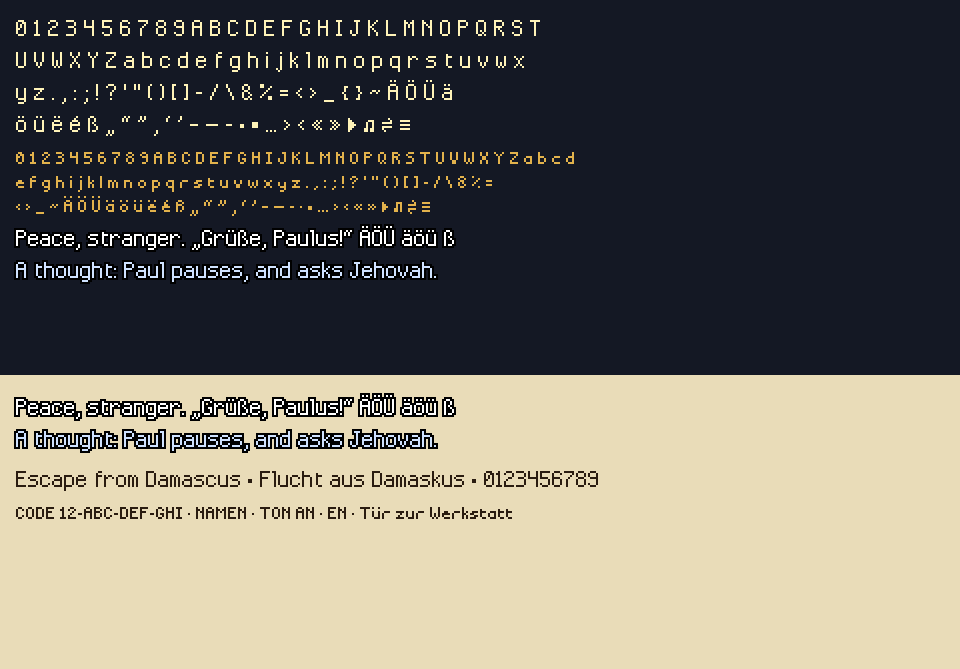
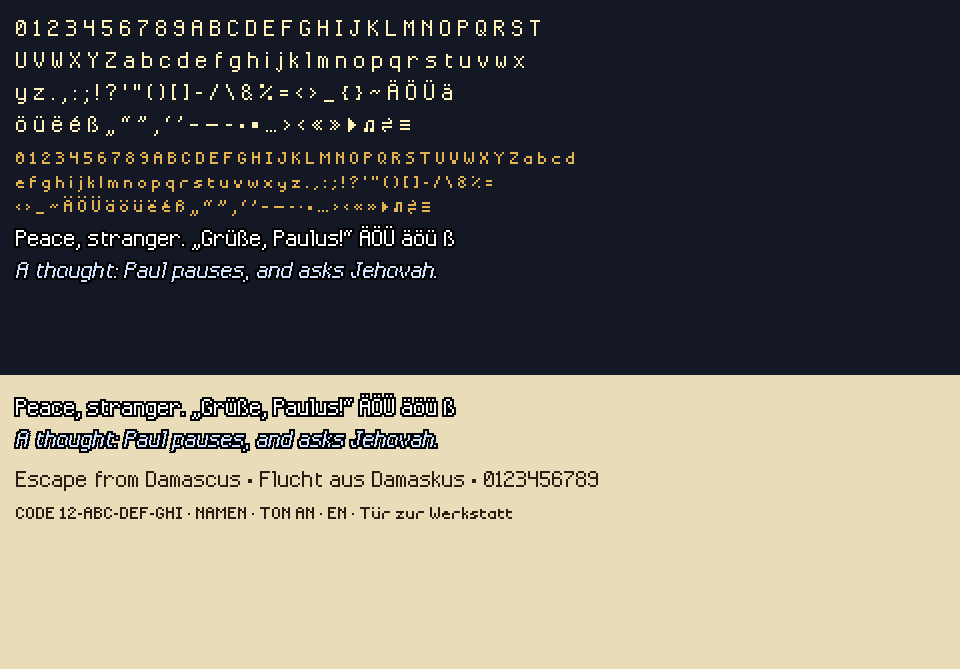
Pixel font: a slanted face for thoughts and prayer hints
Paul's thoughts and the answers to prayer are italic again. The italic is
the same pixel shapes leaned about 11 degrees as parallelograms and
smoothed by the browser, so no stroke tears where a stepped slant would.
Each glyph's box covers its slanted shape, so the browser clips nothing.
The font sheet shows it on a dark and a bright ground.

Changed region(s): [[0.0, 0.3886, 0.4688, 0.4185], [0.0, 0.6278, 0.25, 0.6876], [0.2812, 0.6278, 0.4688, 0.6876]]

diff --git a/shared/font.js b/shared/font.js
@@ -1,6 +1,6 @@
 /* Paul of Tarsus: a pixel font painted in code (CONTRIBUTING section 4).
    Two bitmap faces on the grid of the view's canvas pixels (two font pixels to one room pixel):
-     - "Paul Pixel"       12-pixel em (used at calc(var(--s)*6px) or integer multiples).
+     - "Paul Pixel"       12-pixel em (used at calc(var(--s)*6px) or integer multiples), upright, and slanted for thoughts.
      - "Paul Pixel Small"  9-pixel em (used at calc(var(--s)*4.5px)) for the top bar, tags, notes and footers.
    Each glyph is built in memory as a TrueType font (head, hhea, maxp, OS/2, hmtx, cmap, loca, glyf, name, post) from merged pixel
    rectangles and registered with FontFace. No font file, no network; works from disk. If any browser refuses it, the page keeps
@@ -293,7 +293,10 @@ function toRects(glyphs){
 
 /* --- TrueType binary writer --- */
 const UNIT=100;
-function buildTTF(name,sub,em,asc,desc,xH,capH,italic,glyphMap){
+/* buildTTF: a font from glyphs of pixel rectangles. slant leans every rectangle into a parallelogram, moving a point slant font pixels
+   to the right for each pixel it stands above the baseline; the glyph's box covers the slanted shape, or a browser clips its top. */
+function buildTTF(name,sub,em,asc,desc,xH,capH,italic,glyphMap,slant){
+  const K=slant||0,lean=(x,y)=>Math.round(x+K*y);
   const upm=em*UNIT,codes=Object.keys(glyphMap).map(c=>c.codePointAt(0)).sort((a,b)=>a-b);
   const glyphs=[{code:0,rects:[],adv:Math.round(em*.5)}];
   for(const cp of codes){const ch=String.fromCodePoint(cp),g=glyphMap[ch];glyphs.push({code:cp,rects:g.rects,adv:g.adv})}
@@ -310,7 +313,7 @@ function buildTTF(name,sub,em,asc,desc,xH,capH,italic,glyphMap){
     if(!g.rects.length){continue}
     let x0=32767,y0=32767,x1=-32768,y1=-32768;
     const rs=g.rects.map(r=>[r[0]*UNIT,r[1]*UNIT,r[2]*UNIT,r[3]*UNIT]);
-    for(const[a,b,c,d]of rs){x0=Math.min(x0,a);y0=Math.min(y0,b);x1=Math.max(x1,c);y1=Math.max(y1,d)}
+    for(const[a,b,c,d]of rs){x0=Math.min(x0,lean(a,b));y0=Math.min(y0,b);x1=Math.max(x1,lean(c,d));y1=Math.max(y1,d)}
     gXMin=Math.min(gXMin,x0);gYMin=Math.min(gYMin,y0);gXMax=Math.max(gXMax,x1);gYMax=Math.max(gYMax,y1);
     minLsb=Math.min(minLsb,x0);minRsb=Math.min(minRsb,adv-x1);maxExt=Math.max(maxExt,x1);
     const nc=rs.length,np=nc*4;maxCts=Math.max(maxCts,nc);maxPts=Math.max(maxPts,np);
@@ -322,7 +325,7 @@ function buildTTF(name,sub,em,asc,desc,xH,capH,italic,glyphMap){
     dv.setUint16(p,0);p+=2;
     for(let k=0;k<np;k++)dv.setUint8(p++,1);
     let px=0;
-    for(const[a,b,c,d]of rs)for(const nx of[a,a,c,c]){dv.setInt16(p,nx-px);p+=2;px=nx}
+    for(const[a,b,c,d]of rs)for(const nx of[lean(a,b),lean(a,d),lean(c,d),lean(c,b)]){dv.setInt16(p,nx-px);p+=2;px=nx}
     let py=0;
     for(const[a,b,c,d]of rs)for(const ny of[b,d,d,b]){dv.setInt16(p,ny-py);p+=2;py=ny}
     const pad=(4-(buf.byteLength%4))%4,u8=new Uint8Array(buf.byteLength+pad);u8.set(new Uint8Array(buf));
@@ -336,7 +339,7 @@ function buildTTF(name,sub,em,asc,desc,xH,capH,italic,glyphMap){
   for(let i=0;i<=nG;i++)locaDv.setUint32(i*4,loca[i]);
 
   const hmtxBuf=new ArrayBuffer(nG*4),hmtxDv=new DataView(hmtxBuf);
-  for(let i=0;i<nG;i++){const g=glyphs[i],lx=g.rects.length?Math.min(...g.rects.map(r=>r[0]))*UNIT:0;hmtxDv.setUint16(i*4,g.adv*UNIT);hmtxDv.setInt16(i*4+2,lx)}
+  for(let i=0;i<nG;i++){const g=glyphs[i],lx=g.rects.length?Math.min(...g.rects.map(r=>lean(r[0]*UNIT,r[1]*UNIT))):0;hmtxDv.setUint16(i*4,g.adv*UNIT);hmtxDv.setInt16(i*4+2,lx)}
 
   /* cmap format 4 */
   const segs=[];
@@ -425,16 +428,18 @@ function buildTTF(name,sub,em,asc,desc,xH,capH,italic,glyphMap){
 }
 
 const REG_G=expand(REG,REG_META),SML_G=expand(SML,SML_META);
-const REG_R=toRects(REG_G),SML_R=toRects(SML_G);
+const REG_R=toRects(REG_G),SML_R=toRects(SML_G),SLANT=.2;
 
 /* Under html.pf: the sizes that put one font pixel on half a room pixel. Speech is outlined one font pixel all round, as thick as the
-   letters' strokes: a thicker outline runs together between the letters on a bright scene. Thoughts stand upright like speech, told
-   apart by their pale blue (a slanted pixel letter tears where its strokes step over). */
+   letters' strokes: a thicker outline runs together between the letters on a bright scene. Thoughts are slanted: the
+   pixel shapes lean about 11 degrees and the browser smooths their edges, the one text that is not on the pixel grid. A slant in whole
+   pixels tears where a stroke steps over, and one in half pixels blurs on most screens. */
 const CSS=`
 html.pf body{font-family:"Paul Pixel","Lucida Console",Monaco,"Courier New",monospace;font-weight:normal;font-synthesis:none;-webkit-font-smoothing:none;font-smooth:never}
 html.pf #top{font-family:"Paul Pixel Small","Paul Pixel","Lucida Console",Monaco,"Courier New",monospace;font-size:calc(var(--s)*4.5px);letter-spacing:.04em}
 html.pf #top button{font:inherit}
-html.pf .line{font-size:calc(var(--s)*6px);line-height:1.25;font-style:normal!important;
+html.pf .line.th{-webkit-font-smoothing:antialiased;font-smooth:auto}
+html.pf .line{font-size:calc(var(--s)*6px);line-height:1.25;
   text-shadow:var(--px) 0 #000,calc(var(--px)*-1) 0 #000,0 var(--px) #000,0 calc(var(--px)*-1) #000,
    var(--px) var(--px) #000,calc(var(--px)*-1) var(--px) #000,var(--px) calc(var(--px)*-1) #000,calc(var(--px)*-1) calc(var(--px)*-1) #000}
 html.pf .tag{font-family:"Paul Pixel Small","Paul Pixel","Lucida Console",Monaco,"Courier New",monospace;font-size:calc(var(--s)*4.5px);line-height:1.25}
@@ -469,9 +474,10 @@ const ready=(async()=>{
   try{
     if(typeof FontFace==='undefined'||!document.fonts)return false;
     const f1=new FontFace('Paul Pixel',buildTTF('Paul Pixel','Regular',12,10,-2,5,8,0,REG_R),{weight:'100 900',style:'normal'});
+    const f2=new FontFace('Paul Pixel',buildTTF('Paul Pixel','Italic',12,10,-2,5,8,1,REG_R,SLANT),{weight:'100 900',style:'italic'});
     const f3=new FontFace('Paul Pixel Small',buildTTF('Paul Pixel Small','Regular',9,7,-2,4,6,0,SML_R),{weight:'100 900',style:'normal'});
-    await Promise.all([f1.load(),f3.load()]);
-    document.fonts.add(f1);document.fonts.add(f3);
+    await Promise.all([f1.load(),f2.load(),f3.load()]);
+    document.fonts.add(f1);document.fonts.add(f2);document.fonts.add(f3);
     const st=document.createElement('style');st.textContent=CSS;document.head.appendChild(st);
     return true
   }catch(e){console.error(e);return false}

diff --git a/tools/playtest-harness.html b/tools/playtest-harness.html
@@ -128,7 +128,7 @@
           const sp=sprite('ages-test'+i,q=>person(q,0,0,o,1,0,0,0,0,0),1);g.drawImage(sp,FIG.OX-30,FIG.OY-104,60,106,x+Math.floor((cw-120)/2),y+chh-214,120,212);
           g.fillStyle='#101418';g.font='bold 11px monospace';g.fillText(n,x+5,y+14)})})}}
   halt('title',()=>{const g=ov.querySelector('.go');if(g)g.style.animation='none'});
-  ok(document.documentElement.classList.contains('pf')&&SHARED.font&&document.fonts.check('12px "Paul Pixel"')&&document.fonts.check('9px "Paul Pixel Small"'),'pixel font loaded and active');
+  ok(document.documentElement.classList.contains('pf')&&SHARED.font&&document.fonts.check('12px "Paul Pixel"')&&document.fonts.check('italic 12px "Paul Pixel"')&&document.fonts.check('9px "Paul Pixel Small"'),'pixel font loaded and active');
   {const G=SHARED.font&&SHARED.font.glyphs,foot=(f,c)=>G[f][c].yTop-G[f][c].rows.length;
     ok(G&&['regular','small'].every(f=>[...'acemnorsuvwxz'].every(c=>foot(f,c)===0&&G[f][c].yTop===G[f].o.yTop)&&[...'bdhiklt0123456789ABCDEFGHIJKLMNOPRSTUVWXYZÄÖÜäöüß'].every(c=>foot(f,c)===0)&&[...'gpqy'].every(c=>foot(f,c)===-2)),
       'every letter of the pixel font stands on the baseline, the short ones at one x-height')}
@@ -140,8 +140,8 @@
       const said=(t,x,y,col,o)=>{g.fillStyle='#000';for(const[i,j]of[[o,0],[-o,0],[0,o],[0,-o],[o,o],[-o,o],[o,-o],[-o,-o]])g.fillText(t,x+i,y+j);g.fillStyle=col;g.fillText(t,x,y)};
       let y=36;g.font='24px "Paul Pixel"';g.fillStyle='#fff3b8';for(const r of rows(set('regular'),30)){g.fillText(r,16,y);y+=32}
       g.font='18px "Paul Pixel Small"';g.fillStyle='#e2b24c';for(const r of rows(set('small'),40)){g.fillText(r,16,y);y+=24}
-      y+=10;g.font='24px "Paul Pixel"';said('Peace, stranger. „Grüße, Paulus!“ ÄÖÜ äöü ß',16,y,'#fff',2);said('A thought: Paul pauses, and asks Jehovah.',16,y+32,'#cfe2ff',2);
-      y=half+40;said('Peace, stranger. „Grüße, Paulus!“ ÄÖÜ äöü ß',16,y,'#fff',2);said('A thought: Paul pauses, and asks Jehovah.',16,y+32,'#cfe2ff',2);
+      y+=10;g.font='24px "Paul Pixel"';said('Peace, stranger. „Grüße, Paulus!“ ÄÖÜ äöü ß',16,y,'#fff',2);g.font='italic 24px "Paul Pixel"';said('A thought: Paul pauses, and asks Jehovah.',16,y+32,'#cfe2ff',2);
+      y=half+40;g.font='24px "Paul Pixel"';said('Peace, stranger. „Grüße, Paulus!“ ÄÖÜ äöü ß',16,y,'#fff',2);g.font='italic 24px "Paul Pixel"';said('A thought: Paul pauses, and asks Jehovah.',16,y+32,'#cfe2ff',2);g.font='24px "Paul Pixel"';
       g.fillStyle='#2a1c10';g.fillText('Escape from Damascus · Flucht aus Damaskus · 0123456789',16,y+72);
       g.font='18px "Paul Pixel Small"';g.fillText('CODE 12-ABC-DEF-GHI · NAMEN · TON AN · EN · Tür zur Werkstatt',16,y+104)})}
   /* the title card at full length, and a room change caught half-way through its cross-fade */

diff --git a/index.html b/index.html
@@ -906,7 +906,7 @@ function walk(a,x,y){return new Promise(res=>{const rm=ROOMS[a.room];
 let cur=null;
 function say(a,text,o={}){text=T(text);return new Promise(res=>{
   const el=document.createElement('div');el.className='line';el.textContent=text;el.style.color=o.color||(a?a.color:'#e6d9ff');
-  if(o.thought)el.style.fontStyle='italic';
+  if(o.thought){el.style.fontStyle='italic';el.classList.add('th')}
   $('#speech').appendChild(el);if(a&&!o.thought)a.talk=true;
   let n=0;const blip=a&&!o.thought?setInterval(()=>{if(n++<Math.min(9,text.length/5))SFX.talk(a.pitch*2)},85):0;
   const done=()=>{clearTimeout(tm);clearInterval(blip);el.remove();if(a)a.talk=false;if(G.skip===done)G.skip=null;cur=null;res()};

diff --git a/docs/look-and-sound.md b/docs/look-and-sound.md
@@ -36,7 +36,7 @@ Each chapter ends on a travel map of the eastern Mediterranean, painted the same
 
 Each chapter has its own score and room sounds, and the end-of-chapter map is described in the chapter's own page (see [the chapter list](../README.md#chapters)).
 
-All text uses two bitmap fonts painted in code (`shared/font.js`) on the grid of the backdrops, two font pixels to the room pixel: **Paul Pixel** for speech, verbs, choices and headings, and **Paul Pixel Small** for the top bar, the names, notes and the names on the map. Every letter stands on one baseline, the short ones at one x-height, and only g, j, p, q and y hang below it. Speech is outlined one font pixel all round, as thick as the strokes, so that it reads on a sunlit quay as well as at night. Paul's thoughts and the answers to prayer stand upright like speech, told apart by their pale blue: a slanted pixel letter tears where its strokes step over. The fonts are built in memory as TrueType fonts from the pixels, with no font file, and the system's monospace stands in if a browser refuses them. The Greek letters cut in stone in Chapters Eleven and Twelve are part of the painting and keep their own lettering.
+All text uses two bitmap fonts painted in code (`shared/font.js`) on the grid of the backdrops, two font pixels to the room pixel: **Paul Pixel** for speech, verbs, choices and headings, and **Paul Pixel Small** for the top bar, the names, notes and the names on the map. Every letter stands on one baseline, the short ones at one x-height, and only g, j, p, q and y hang below it. Speech is outlined one font pixel all round, as thick as the strokes, so that it reads on a sunlit quay as well as at night. Paul's thoughts and the answers to prayer are slanted and pale blue. Their letters are the same pixel shapes leaned about 11 degrees and smoothed by the browser, the one text with soft edges: a slant made of whole pixels tears where a stroke steps over. The fonts are built in memory as TrueType fonts from the pixels, with no font file, and the system's monospace stands in if a browser refuses them. The Greek letters cut in stone in Chapters Eleven and Twelve are part of the painting and keep their own lettering.
 
 ![The pixel font on a dark and a bright ground](screenshots/font.png)
 
